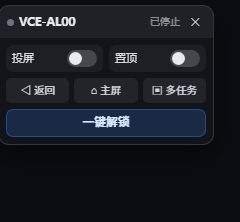
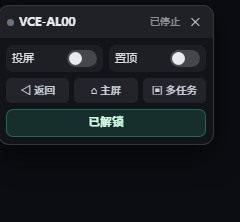
feat: 解锁按钮显示手机当前状态 (v3.1.0)
- 新增 GET /phone：{locked, awake}，adb 探测缓存 2 秒
- 面板展开时每 3 秒问一次；收起时不问，省 adb
- 按钮文案跟随状态：已解锁（绿）/ 一键解锁 · 锁屏中 / 一键解锁 · 息屏 / 解锁中…
- 解锁成功后本地立刻置为已解锁，不用等下一轮

Changed region(s): [[0.0, 0.4865, 0.875, 0.6216]]

diff --git a/lib/panel.js b/lib/panel.js
@@ -54,6 +54,9 @@
     '#dpm-unlock{margin-top:6px;width:100%;height:28px;border:1px solid rgba(59,130,246,.38);border-radius:7px;',
     'background:rgba(59,130,246,.20);color:#dbeafe;font-size:11.5px;font-weight:600;letter-spacing:.3px}',
     '#dpm-unlock:hover{background:rgba(59,130,246,.34);color:#fff}',
+    // 已经解锁时按钮转绿：没有要做的动作
+    '#dpm-unlock.ok{background:rgba(52,211,153,.14);border-color:rgba(52,211,153,.36);color:#d1fae5}',
+    '#dpm-unlock.ok:hover{background:rgba(52,211,153,.26);color:#ecfdf5}',
     '#dpm-err{margin-top:6px;font-size:10.5px;line-height:1.4;color:#fca5a5;word-break:break-all;display:none}',
   ].join('\n')
 
@@ -167,9 +170,56 @@
     var topRow = panel.querySelector('#dpm-top')
     var unlockBtn = panel.querySelector('#dpm-unlock')
 
-    var last = { running: false, busy: false, topmost: false }
+    var last = { running: false, busy: false, topmost: false, locked: null, awake: null }
     var unlocking = false
     var polling = false
+    var phonePolling = false
+
+    // 解锁按钮上显示手机当前状态：锁屏中 / 已解锁 / 息屏。
+    // locked === null 表示还没问到（或者没填设备地址），就退回纯「一键解锁」。
+    function renderUnlock() {
+      if (unlocking) return
+      var label = '一键解锁'
+      var ok = false
+      if (last.locked === false && last.awake !== false) {
+        label = '已解锁'
+        ok = true
+      } else if (last.awake === false) {
+        label = '一键解锁 · 息屏'
+      } else if (last.locked === true) {
+        label = '一键解锁 · 锁屏中'
+      }
+      unlockBtn.textContent = label
+      unlockBtn.className = 'dpm-btn' + (ok ? ' ok' : '')
+      unlockBtn.title =
+        last.locked === null
+          ? '一键解锁（唤醒 + 上滑 + 输 PIN）'
+          : last.locked
+            ? '手机现在锁着，点一下解锁'
+            : last.awake === false
+              ? '手机现在息屏，点一下唤醒并解锁'
+              : '手机现在已解锁，点一下只是重新确认'
+    }
+
+    function refreshPhone() {
+      if (phonePolling || st.hidden || document.hidden) return
+      phonePolling = true
+      getJSON('/phone')
+        .then(function (p) {
+          if (p && p.ok) {
+            last.locked = !!p.locked
+            last.awake = !!p.awake
+          } else {
+            last.locked = null
+            last.awake = null
+          }
+          renderUnlock()
+        })
+        .catch(function () {})
+        .then(function () {
+          phonePolling = false
+        })
+    }
 
     // 面板：拖过就按存的坐标放，没拖过就居中（transform 负责居中）
     function place() {
@@ -277,7 +327,11 @@
       postJSON('/unlock', {}).then(function (r) {
         unlocking = false
         unlockBtn.disabled = false
-        unlockBtn.textContent = '一键解锁'
+        if (r && r.ok) {
+          last.locked = false
+          last.awake = true
+        }
+        renderUnlock()
         if (!r || r.ok === false) {
           errEl.textContent = (r && r.error) || '解锁失败：宿主没响应'
           errEl.style.display = 'block'
@@ -285,6 +339,7 @@
           stateEl.textContent = '已经解锁'
         }
         setTimeout(refresh, 300)
+        setTimeout(refreshPhone, 800)
       })
     }
 
@@ -346,16 +401,26 @@
       layout()
       save()
       refresh()
+      refreshPhone()
     })
 
     place()
     layout()
+    renderUnlock()
     refresh()
+    refreshPhone()
     setInterval(function () {
       if (!document.hidden) refresh()
     }, 2000)
+    // 锁屏状态单独一条：只在面板展开时问（收起时没必要每 3 秒花一次 adb）
+    setInterval(function () {
+      if (!document.hidden && !st.hidden) refreshPhone()
+    }, 3000)
     document.addEventListener('visibilitychange', function () {
-      if (!document.hidden) refresh()
+      if (!document.hidden) {
+        refresh()
+        refreshPhone()
+      }
     })
     window.addEventListener('resize', function () {
       if (st.x != null && (st.x > window.innerWidth - 80 || st.y > window.innerHeight - 34)) {

diff --git a/lib/index.js b/lib/index.js
@@ -13,7 +13,7 @@ import { fileURLToPath } from 'node:url'
 import { DEFAULTS, HOME, loadConfig, saveConfig, sanitize } from './config.js'
 import { buildScrcpyArgs, parseDevices, WINDOW_TITLE } from './args.js'
 import { MirrorSession } from './session.js'
-import { unlockPhone } from './unlock.js'
+import { unlockPhone, isAwake, isLocked } from './unlock.js'
 
 export const name = 'dfy-mirror'
 export const inject = ['webServer']
@@ -145,6 +145,8 @@ export function apply(ctx) {
   let cfg = loadConfig()
   let session = null
   let device = { serial: '', model: '' }
+  // 手机锁屏状态缓存：面板的解锁按钮要显示「锁屏中 / 已解锁」
+  let phoneCache = { at: 0, value: null }
 
   const readBody = (req) =>
     new Promise((resolve) => {
@@ -333,8 +335,27 @@ export function apply(ctx) {
     const adb = resolveCmds(cfg).adb
     if (cfg.serial.includes(':')) await run(adb, ['connect', cfg.serial], 6000)
     const r = await unlockPhone({ adb, serial: cfg.serial, pin: cfg.pin, log })
+    phoneCache = { at: 0, value: null }
     log('解锁：' + (r.ok ? '成功' : '失败') + (r.already ? '（本来就是解锁）' : '') + (r.error ? ' - ' + r.error : ''))
     return r
+  }
+
+  // 手机当前是锁着还是亮着——面板上的解锁按钮要显示这个。
+  // adb 一次 0.5 秒左右，所以缓存 2 秒；面板只在展开时每 3 秒问一次。
+  const phoneState = async () => {
+    if (!cfg.serial) return { ok: false, locked: null, awake: null, error: '还没填设备地址' }
+    if (phoneCache.value && Date.now() - phoneCache.at < 2000) return phoneCache.value
+    const adb = resolveCmds(cfg).adb
+    const r = await run(
+      adb,
+      ['-s', cfg.serial, 'shell', "dumpsys window | grep -E 'isStatusBarKeyguard|mDreamingLockscreen'; dumpsys power | grep mWakefulness="],
+      5000,
+    )
+    const out = r.out || ''
+    if (r.code !== 0) return { ok: false, locked: null, awake: null, error: (r.err || '').trim() || 'adb 执行失败' }
+    const value = { ok: true, locked: isLocked(out), awake: isAwake(out), at: Date.now() }
+    phoneCache = { at: Date.now(), value }
+    return value
   }
 
   // ---------- HTTP 路由 ----------
@@ -377,6 +398,9 @@ export function apply(ctx) {
     )
 
   route(P + '/status', (req, res) => json(res, 200, status()))
+
+  // 锁屏状态（给解锁按钮显示用）。缓存 2 秒，见 phoneState()。
+  route(P + '/phone', async (req, res) => json(res, 200, await phoneState()))
 
   route(P + '/config', async (req, res) => {
     if (req.method === 'POST') {

diff --git a/README.md b/README.md
@@ -84,15 +84,23 @@
 > 选中的图标——实测会打开华为音乐。这是「解锁后误开 App」的根因。
 
 **已经解锁时不会上滑、也不会打字**（约 2 秒返回 `already:true`），
-所以不会把 PIN 打进正在用的 App 里。锁着的时候大约 8 秒。
+所以不会把 PIN 打进正在用的 App 里。锁着的时候大约 6~8 秒。
 
-面板里它是整行按钮：请求期间变「解锁中…」并禁用。
+面板里它是整行按钮，**按钮上直接显示手机当前状态**（数据来自 `GET /phone`，展开面板时每 3 秒问一次，缓存 2 秒）：
+
+| 手机状态 | 按钮 |
+| --- | --- |
+| 已解锁 | 绿色「已解锁」 |
+| 锁屏（亮屏） | 蓝色「一键解锁 · 锁屏中」 |
+| 息屏 | 蓝色「一键解锁 · 息屏」 |
+| 请求中 | 「解锁中…」，禁用 |
 
 ## 接口（全部同源可写，跨站写操作一律 403）
 
 | 方法 | 路径 | 作用 |
 | --- | --- | --- |
 | GET | `/dsh-dfy-mirror/status` | 状态机当前状态、错误、设备型号 |
+| GET | `/dsh-dfy-mirror/phone` | 手机现在锁没锁：`{ok, locked, awake}`（缓存 2 秒） |
 | GET/POST | `/dsh-dfy-mirror/config` | 读/写配置 |
 | GET | `/dsh-dfy-mirror/devices` | `adb devices -l` |
 | POST | `/dsh-dfy-mirror/start` `/stop` | 起停投屏窗口（启动前会先清掉残留的 scrcpy，避免两个窗口抢端口） |
